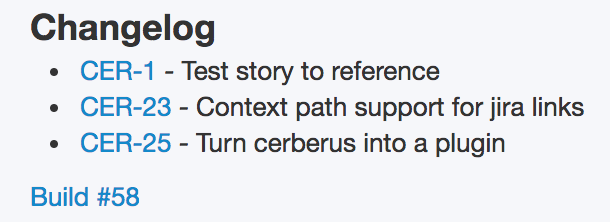
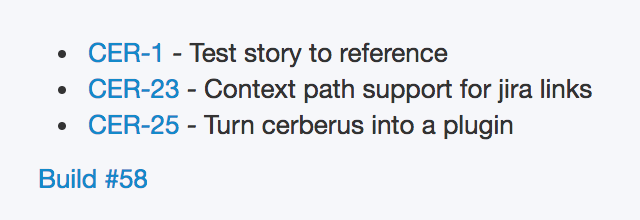
Readjust images

diff --git a/blog/BLOG.md b/blog/BLOG.md
@@ -7,13 +7,13 @@
 Wish your changelog was automatically generated for you, like so?
 
 
-<img src="assets/hockey_changelog.png" alt="changelog" width="350"/>
+<img src="assets/hockey_changelog.png" alt="changelog" width="320"/>
 
 **Do you manually comment about automated events on your tickets?**
 
 Wish your ticket automatically receive a comment about build and deploy events, like so?
 
-<img src="assets/jira_comment.png" alt="Jira Comment" width="350"/>
+<img src="assets/jira_comment.png" alt="Jira Comment" width="320"/>
 
 read on, you may find this tool useful.
 
